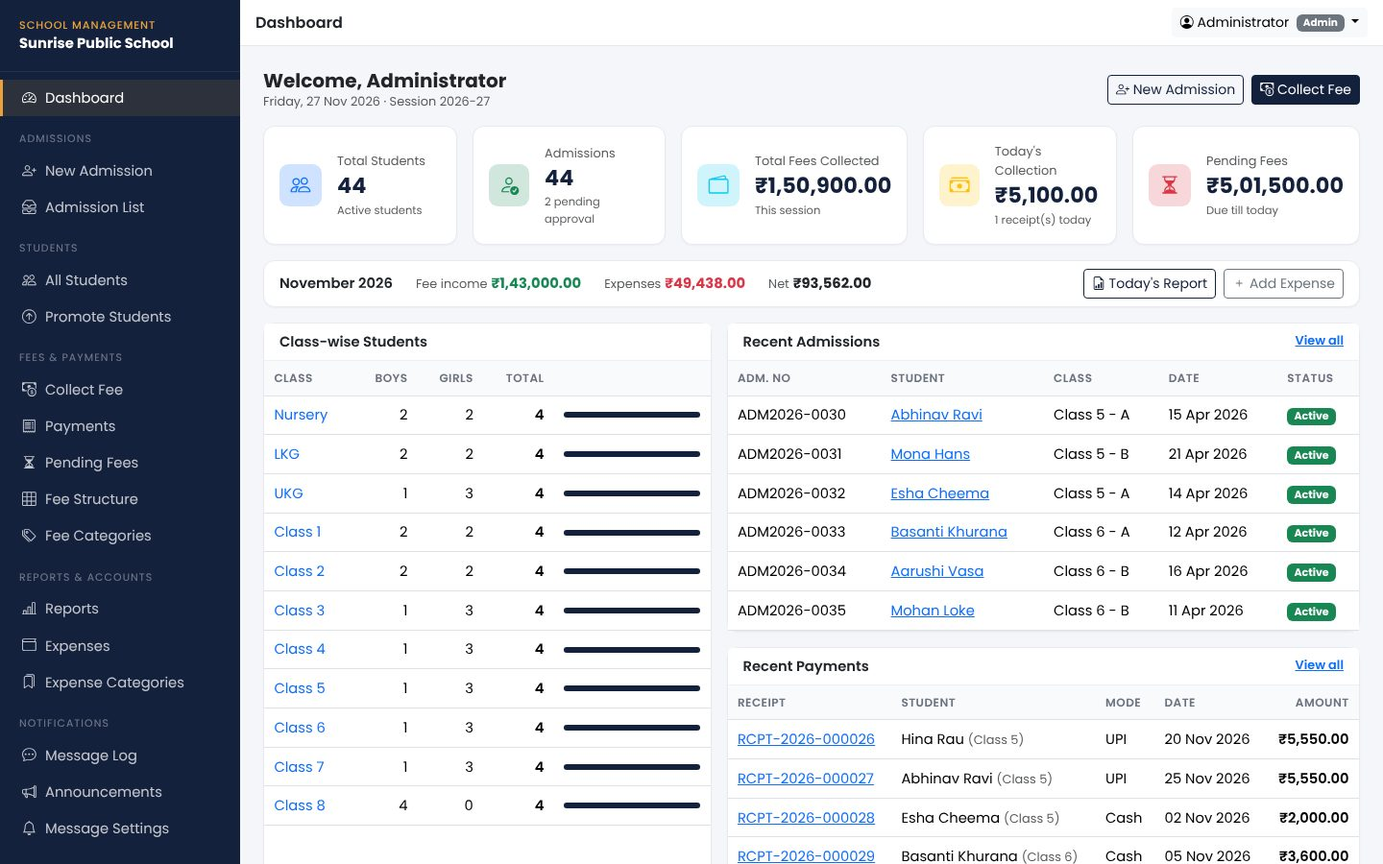
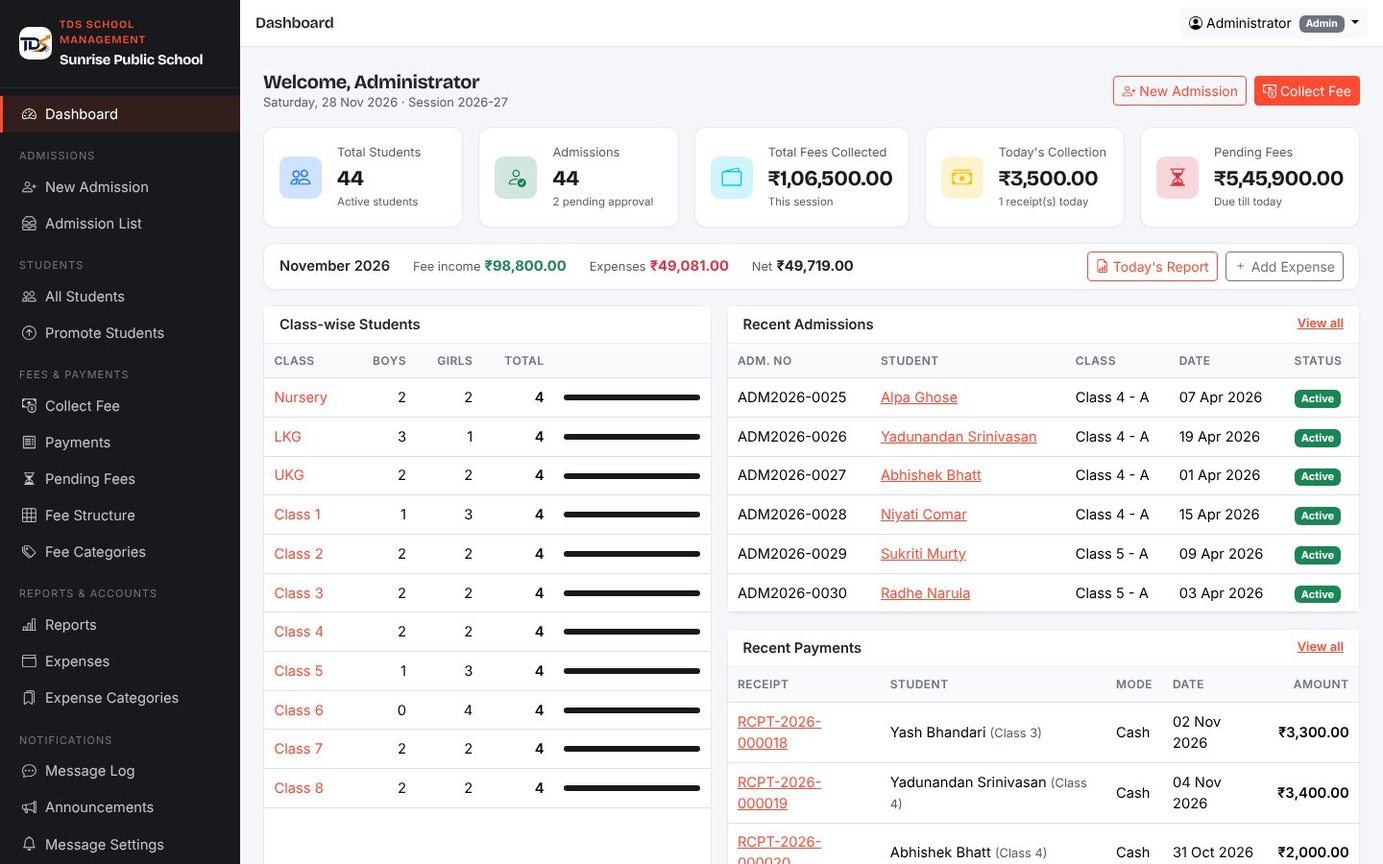
The Digital Strokes branding and schoolapp subdomain setup
- colours and fonts from thedigitalstrokes.in: brand orange #FF4B32 (hover
  #E23A22, soft #FFEEEB), dark #17191C/#2B2F35, Bricolage Grotesque headings,
  Inter body, pill buttons, white blurred header like the company site
- TDS logo mark in header, sidebar, owner panel and favicon; footer credit
- product screenshots retaken in the new style
- company contact (phone/WhatsApp/email) as defaults
- install steps for schoolapp.thedigitalstrokes.in: subdomain folder only,
  separate database, never touch the WordPress public_html

Verified on Apache with a WordPress-style parent .htaccess: main site
unaffected, subdomain installer, sign-up and lock work with MariaDB.

Claude-Session: https://claude.ai/code/session_01WPcd53vdgQhUfDC1Dq5XMG

diff --git a/resources/views/layouts/site.blade.php b/resources/views/layouts/site.blade.php
@@ -6,35 +6,44 @@
     <meta name="csrf-token" content="{{ csrf_token() }}">
     <title>@hasSection('title')@yield('title') · @endif{{ \App\Models\PlatformSetting::get('company_name') }}</title>
     <meta name="description" content="@yield('description', __('School management software for Nursery to Class 8: admissions, fees, receipts, reports and parent reminders. Runs on your own Windows laptop.'))">
-    <link rel="icon" href="{{ asset('assets/favicon.png') }}">
+    <link rel="icon" href="{{ asset('favicon.png') }}">
     <link href="{{ asset('vendor/bootstrap/bootstrap.min.css') }}" rel="stylesheet">
     <link href="{{ asset('vendor/bootstrap-icons/bootstrap-icons.min.css') }}" rel="stylesheet">
     <link rel="preconnect" href="https://fonts.googleapis.com">
-    <link href="https://fonts.googleapis.com/css2?family=Poppins:wght@400;500;600;700&family=Noto+Sans+Devanagari:wght@400;500;600;700&display=swap" rel="stylesheet">
+    <link href="https://fonts.googleapis.com/css2?family=Bricolage+Grotesque:opsz,wght@12..96,600;12..96,700;12..96,800&family=Inter:wght@400;500;600;700&family=Noto+Sans+Devanagari:wght@400;500;600;700&display=swap" rel="stylesheet">
     <style>
-        :root { --navy:#14213d; --navy-2:#1d2d52; --amber:#e9a23b; --ink:#1f2937; --muted:#6b7280; --line:#e6e9f0; --bg:#f5f7fb; }
-        body { font-family:'Poppins','Noto Sans Devanagari',system-ui,sans-serif; color:var(--ink); background:#fff; }
-        html[lang=hi] body { font-family:'Noto Sans Devanagari','Poppins',system-ui,sans-serif; }
-        .site-nav { background:var(--navy); position:sticky; top:0; z-index:1030; }
-        .site-nav .navbar-brand { color:#fff; font-weight:700; display:flex; align-items:center; gap:10px; }
-        .site-nav .navbar-brand img { width:36px; height:36px; border-radius:8px; }
-        .site-nav .navbar-brand small { display:block; color:var(--amber); font-size:.6rem; letter-spacing:.12em; font-weight:600; line-height:1; text-transform:uppercase; }
-        .site-nav .nav-link { color:rgba(255,255,255,.8); }
-        .site-nav .nav-link:hover, .site-nav .nav-link.active { color:#fff; }
-        .site-nav .navbar-toggler { border-color:rgba(255,255,255,.3); }
-        .site-nav .navbar-toggler-icon { filter:invert(1); }
-        .btn-amber { background:var(--amber); color:var(--navy); font-weight:600; border:0; }
-        .btn-amber:hover { background:#f0b04f; color:var(--navy); }
-        .btn-navy { background:var(--navy); color:#fff; font-weight:500; }
-        .btn-navy:hover { background:#0d1730; color:#fff; }
-        .lang-switch a { color:rgba(255,255,255,.65); text-decoration:none; font-size:.85rem; padding:2px 6px; border-radius:6px; }
-        .lang-switch a.on { color:var(--navy); background:#fff; }
-        .eyebrow { color:var(--amber); text-transform:uppercase; letter-spacing:.12em; font-size:.78rem; font-weight:600; }
-        h1, h2, h3, h4 { color:var(--navy); }
-        .card { border:1px solid var(--line); border-radius:14px; }
-        .form-label { font-weight:500; font-size:.88rem; margin-bottom:.3rem; }
-        .site-footer { background:var(--navy); color:rgba(255,255,255,.65); font-size:.9rem; }
-        .site-footer a { color:rgba(255,255,255,.8); text-decoration:none; }
+        /* The Digital Strokes brand */
+        :root { --b:#FF4B32; --bd:#E23A22; --bs:#FFEEEB; --k:#17191C; --k2:#2B2F35; --g:#929DA7; --gl:#C4CAD0; --ln:#E3E6EA; --sf:#F4F5F7; --mu:#6E7882;
+                --hf:'Bricolage Grotesque','Inter',system-ui,sans-serif; --bf:'Inter',system-ui,-apple-system,'Segoe UI',sans-serif;
+                /* names used by page styles */
+                --navy:var(--k); --navy-2:var(--k2); --amber:var(--b); --ink:var(--k2); --muted:var(--mu); --line:var(--ln); --bg:var(--sf); }
+        body { font-family:var(--bf); color:var(--k2); background:#fff; }
+        html[lang=hi] body { font-family:'Noto Sans Devanagari',var(--bf); }
+        h1, h2, h3, h4, h5, .h1, .h2, .h3, .h4, .h5 { font-family:var(--hf); color:var(--k); letter-spacing:-.025em; font-weight:800; }
+        html[lang=hi] h1, html[lang=hi] h2, html[lang=hi] h3, html[lang=hi] h4 { font-family:'Noto Sans Devanagari',var(--hf); letter-spacing:0; }
+        a { color:var(--b); } a:hover { color:var(--bd); }
+        .site-nav { background:rgb(255 255 255 / .92); -webkit-backdrop-filter:saturate(180%) blur(14px); backdrop-filter:saturate(180%) blur(14px); border-bottom:1px solid var(--ln); position:sticky; top:0; z-index:1030; }
+        .site-nav .navbar-brand { color:var(--k); font-family:var(--hf); font-weight:800; display:flex; align-items:center; gap:10px; letter-spacing:-.02em; }
+        .site-nav .navbar-brand img { width:40px; height:40px; border-radius:12px; object-fit:contain; background:#fff; box-shadow:0 0 0 1px var(--ln); }
+        .site-nav .navbar-brand b { color:var(--b); font-weight:800; }
+        .site-nav .navbar-brand small { display:block; color:var(--mu); font-family:var(--bf); font-size:.62rem; letter-spacing:.12em; font-weight:600; line-height:1; text-transform:uppercase; }
+        .site-nav .nav-link { color:var(--k2); font-weight:600; padding:8px 14px !important; border-radius:999px; }
+        .site-nav .nav-link:hover, .site-nav .nav-link.active { color:var(--b); background:var(--bs); }
+        .btn-amber { background:var(--b); color:#fff; font-family:var(--hf); font-weight:700; border:0; border-radius:999px; box-shadow:0 10px 24px -12px rgb(255 75 50 / .7); }
+        .btn-amber:hover, .btn-amber:focus { background:var(--bd); color:#fff; transform:translateY(-1px); }
+        .btn-navy { background:var(--k); color:#fff; font-family:var(--hf); font-weight:700; border-radius:999px; }
+        .btn-navy:hover { background:var(--k2); color:#fff; }
+        .btn-outline-light, .btn-outline-dark, .btn-outline-secondary { border-radius:999px; }
+        .btn-lg { padding:.75rem 1.6rem; }
+        .lang-switch a { color:var(--mu); text-decoration:none; font-size:.85rem; font-weight:600; padding:4px 10px; border-radius:999px; border:1px solid var(--ln); }
+        .lang-switch a.on { color:#fff; background:var(--k); border-color:var(--k); }
+        .eyebrow { color:var(--b); text-transform:uppercase; letter-spacing:.14em; font-size:.78rem; font-weight:700; }
+        .card { border:1px solid var(--ln); border-radius:18px; }
+        .form-control, .form-select { border-radius:12px; border-color:var(--ln); padding:.6rem .85rem; }
+        .form-control:focus, .form-select:focus { border-color:var(--b); box-shadow:0 0 0 .2rem rgb(255 75 50 / .15); }
+        .form-label { font-weight:600; font-size:.88rem; margin-bottom:.3rem; color:var(--k2); }
+        .site-footer { background:var(--k); color:var(--gl); font-size:.9rem; }
+        .site-footer a { color:var(--gl); text-decoration:none; }
         .site-footer a:hover { color:#fff; }
     </style>
     @stack('styles')
@@ -43,7 +52,7 @@
 @php($wa = preg_replace('/\D/', '', (string) \App\Models\PlatformSetting::get('contact_whatsapp')))
 <nav class="navbar navbar-expand-lg site-nav">
     <div class="container">
-        <a class="navbar-brand" href="{{ route('home') }}"><img src="{{ asset('assets/logo.png') }}" alt=""><span><small>{{ __('School Management') }}</small>TDS Software</span></a>
+        <a class="navbar-brand" href="{{ route('home') }}"><img src="{{ asset('assets/tds-mark.png') }}" alt="The Digital Strokes"><span><small>The Digital Strokes</small>TDS <b>School</b></span></a>
         <button class="navbar-toggler" type="button" data-bs-toggle="collapse" data-bs-target="#nav" aria-label="Menu"><span class="navbar-toggler-icon"></span></button>
         <div class="collapse navbar-collapse" id="nav">
             <ul class="navbar-nav ms-auto align-items-lg-center gap-lg-2">
@@ -72,7 +81,7 @@
 
 <footer class="site-footer py-4 mt-auto">
     <div class="container d-flex flex-wrap gap-3 justify-content-between align-items-center">
-        <span>© {{ now()->year }} {{ \App\Models\PlatformSetting::get('company_name') }}</span>
+        <span class="d-flex align-items-center gap-2"><img src="{{ asset('assets/tds-mark.png') }}" alt="" style="width:28px;height:28px;border-radius:8px;background:#fff">© {{ now()->year }} {{ \App\Models\PlatformSetting::get('company_name') }} · {{ __('A product of') }} <a href="https://thedigitalstrokes.in" target="_blank" rel="noopener">The Digital Strokes</a></span>
         <span class="d-flex flex-wrap gap-3">
             @if($wa)<a href="https://wa.me/{{ $wa }}" target="_blank" rel="noopener"><i class="bi bi-whatsapp"></i> WhatsApp</a>@endif
             @if(\App\Models\PlatformSetting::get('contact_phone'))<a href="tel:{{ preg_replace('/[^\d+]/', '', \App\Models\PlatformSetting::get('contact_phone')) }}"><i class="bi bi-telephone"></i> {{ \App\Models\PlatformSetting::get('contact_phone') }}</a>@endif

diff --git a/resources/views/layouts/app.blade.php b/resources/views/layouts/app.blade.php
@@ -5,19 +5,20 @@
     <meta name="viewport" content="width=device-width, initial-scale=1">
     <meta name="csrf-token" content="{{ csrf_token() }}">
     <title>@yield('title', 'Dashboard') · {{ school('name') }}</title>
+    <link rel="icon" href="{{ asset('favicon.png') }}">
     <link href="{{ asset('vendor/bootstrap/bootstrap.min.css') }}" rel="stylesheet">
     <link href="{{ asset('vendor/bootstrap-icons/bootstrap-icons.min.css') }}" rel="stylesheet">
-    <link href="https://fonts.googleapis.com/css2?family=Poppins:wght@400;500;600;700&display=swap" rel="stylesheet">
+    <link href="https://fonts.googleapis.com/css2?family=Bricolage+Grotesque:opsz,wght@12..96,600;12..96,700;12..96,800&family=Inter:wght@400;500;600;700&display=swap" rel="stylesheet">
     <style>
-        :root { --navy:#14213d; --amber:#e9a23b; }
-        body { font-family: 'Poppins', system-ui, sans-serif; background:#f4f6fa; font-size:.92rem; }
+        :root { --navy:#17191C; --amber:#FF4B32; }
+        body { font-family: 'Inter', system-ui, sans-serif; background:#f4f6fa; font-size:.92rem; }
         .sidebar { width:250px; background:var(--navy); min-height:100vh; position:fixed; top:0; left:0; z-index:1030; overflow-y:auto; transition:transform .2s; }
         .sidebar .brand { color:#fff; font-weight:700; padding:1.1rem 1.25rem; border-bottom:1px solid rgba(255,255,255,.08); }
         .sidebar .brand small { color:var(--amber); display:block; font-weight:500; font-size:.7rem; letter-spacing:.08em; text-transform:uppercase; }
         .sidebar .nav-head { color:rgba(255,255,255,.4); font-size:.68rem; text-transform:uppercase; letter-spacing:.1em; padding:1rem 1.25rem .35rem; }
         .sidebar a.nav-link { color:rgba(255,255,255,.75); padding:.5rem 1.25rem; border-left:3px solid transparent; }
         .sidebar a.nav-link:hover { color:#fff; background:rgba(255,255,255,.05); }
-        .sidebar a.nav-link.active { color:#fff; background:rgba(233,162,59,.12); border-left-color:var(--amber); }
+        .sidebar a.nav-link.active { color:#fff; background:rgba(255,75,50,.12); border-left-color:var(--amber); }
         .sidebar a.nav-link i { width:1.5rem; display:inline-block; }
         .sidebar.locked a.nav-link:not(.billing-link) { opacity:.55; }
         .sidebar.locked a.nav-link:not(.billing-link)::after { content:'\F47B'; font-family:'bootstrap-icons'; float:right; color:var(--amber); }
@@ -27,8 +28,6 @@
         .card-header { background:#fff; border-bottom:1px solid #eef0f4; font-weight:600; }
         .stat .icon { width:44px; height:44px; border-radius:.6rem; display:flex; align-items:center; justify-content:center; font-size:1.3rem; }
         .stat .value { font-size:1.4rem; font-weight:700; color:var(--navy); }
-        .btn-primary { --bs-btn-bg:#14213d; --bs-btn-border-color:#14213d; --bs-btn-hover-bg:#0d1730; --bs-btn-hover-border-color:#0d1730; --bs-btn-active-bg:#0d1730; --bs-btn-active-border-color:#0d1730; --bs-btn-disabled-bg:#14213d; --bs-btn-disabled-border-color:#14213d; }
-        .btn-outline-primary { --bs-btn-color:#14213d; --bs-btn-border-color:#14213d; --bs-btn-hover-bg:#14213d; --bs-btn-hover-border-color:#14213d; --bs-btn-active-bg:#14213d; --bs-btn-active-border-color:#14213d; }
         .table > :not(caption) > * > * { padding:.55rem .65rem; }
         .table thead th { font-size:.75rem; text-transform:uppercase; letter-spacing:.04em; color:#6b7280; font-weight:600; background:#f9fafb; }
         .avatar { width:36px; height:36px; border-radius:50%; object-fit:cover; background:#e5e7eb; display:inline-flex; align-items:center; justify-content:center; font-weight:600; color:var(--navy); }
@@ -40,13 +39,23 @@
             .main { margin-left:0; }
         }
         @media print { .sidebar, .topbar, .no-print { display:none !important; } .main { margin:0; } }
+        /* The Digital Strokes brand */
+        h1, h2, h3, h4, h5, .h1, .h2, .h3, .h4, .h5, .brand, .navbar-brand, .stat .value, .stat .v { font-family:'Bricolage Grotesque','Inter',system-ui,sans-serif; letter-spacing:-.02em; }
+        a { color:#FF4B32; } a:hover { color:#E23A22; }
+        .btn-primary { --bs-btn-bg:#FF4B32; --bs-btn-border-color:#FF4B32; --bs-btn-hover-bg:#E23A22; --bs-btn-hover-border-color:#E23A22; --bs-btn-active-bg:#E23A22; --bs-btn-active-border-color:#E23A22; --bs-btn-disabled-bg:#FF4B32; --bs-btn-disabled-border-color:#FF4B32; --bs-btn-color:#fff; --bs-btn-hover-color:#fff; }
+        .btn-outline-primary { --bs-btn-color:#FF4B32; --bs-btn-border-color:#FF4B32; --bs-btn-hover-bg:#FF4B32; --bs-btn-hover-border-color:#FF4B32; --bs-btn-active-bg:#E23A22; --bs-btn-active-border-color:#E23A22; --bs-btn-hover-color:#fff; }
+        .btn-check:checked + .btn-outline-primary { background:#FF4B32; border-color:#FF4B32; color:#fff; }
+        .form-control:focus, .form-select:focus { border-color:#FF4B32; box-shadow:0 0 0 .2rem rgb(255 75 50 / .15); }
+        .form-check-input:checked { background-color:#FF4B32; border-color:#FF4B32; }
+        .nav-tabs .nav-link.active { color:#FF4B32; }
+        .page-link { color:#FF4B32; } .active > .page-link { background:#FF4B32; border-color:#FF4B32; }
     </style>
     @stack('styles')
 </head>
 <body>
 @php($u = auth()->user())
 <nav class="sidebar {{ ($access['state'] ?? null) === 'locked' ? 'locked' : '' }}" id="sidebar">
-    <div class="brand"><small>TDS School Management</small>{{ school('name') }}</div>
+    <div class="brand d-flex align-items-center gap-2"><img src="{{ asset('assets/tds-mark.png') }}" alt="" style="width:34px;height:34px;border-radius:10px;background:#fff"><span><small>TDS School Management</small>{{ school('name') }}</span></div>
     <div class="nav flex-column py-2">
         <a class="nav-link {{ request()->routeIs('dashboard') ? 'active' : '' }}" href="{{ route('dashboard') }}"><i class="bi bi-speedometer2"></i>Dashboard</a>
 
@@ -114,9 +123,9 @@
 
     @isset($access)
         @if($access['state'] === 'locked')
-            <div class="px-3 py-2 small d-flex align-items-center gap-2 text-white no-print" style="background:#14213d">
+            <div class="px-3 py-2 small d-flex align-items-center gap-2 text-white no-print" style="background:#17191C">
                 <i class="bi bi-lock-fill"></i> All features are locked. Start your 7-day trial for just ₹1 to unlock everything.
-                <a href="{{ route('billing') }}" class="ms-auto btn btn-sm fw-semibold" style="background:#e9a23b;color:#14213d">Start trial for ₹1</a>
+                <a href="{{ route('billing') }}" class="ms-auto btn btn-sm fw-semibold" style="background:#FF4B32;color:#fff">Start trial for ₹1</a>
             </div>
         @elseif($access['state'] === 'expired')
             <div class="px-3 py-2 small d-flex align-items-center gap-2 text-white bg-danger no-print">

diff --git a/resources/views/layouts/super.blade.php b/resources/views/layouts/super.blade.php
@@ -3,22 +3,33 @@
 <head>
     <meta charset="utf-8"><meta name="viewport" content="width=device-width, initial-scale=1"><meta name="robots" content="noindex">
     <title>@yield('title') · TDS Owner</title>
-    <link rel="icon" href="{{ asset('assets/favicon.png') }}">
+    <link href="https://fonts.googleapis.com/css2?family=Bricolage+Grotesque:opsz,wght@12..96,600;12..96,700;12..96,800&family=Inter:wght@400;500;600;700&display=swap" rel="stylesheet">
+    <link rel="icon" href="{{ asset('favicon.png') }}">
     <link href="{{ asset('vendor/bootstrap/bootstrap.min.css') }}" rel="stylesheet">
     <link href="{{ asset('vendor/bootstrap-icons/bootstrap-icons.min.css') }}" rel="stylesheet">
     <style>
         body { background:#f4f6fa; font-size:.92rem; }
-        .admin-nav { background:#14213d; } .admin-nav .nav-link { color:rgba(255,255,255,.75); } .admin-nav .nav-link.active, .admin-nav .nav-link:hover { color:#fff; }
+        .admin-nav { background:#17191C; } .admin-nav .nav-link { color:rgba(255,255,255,.75); } .admin-nav .nav-link.active, .admin-nav .nav-link:hover { color:#fff; }
         .admin-nav .navbar-brand { color:#fff; font-weight:700; } .admin-nav .navbar-toggler-icon { filter:invert(1); }
-        .card { border:1px solid #e7eaf0; border-radius:12px; } .stat .v { font-size:1.5rem; font-weight:700; color:#14213d; }
+        .card { border:1px solid #e7eaf0; border-radius:12px; } .stat .v { font-size:1.5rem; font-weight:700; color:#17191C; }
         .table thead th { font-size:.74rem; text-transform:uppercase; color:#6b7280; background:#f9fafb; }
-        .btn-navy { background:#14213d; color:#fff; } .btn-navy:hover { background:#0d1730; color:#fff; }
+        .btn-navy { background:#17191C; color:#fff; } .btn-navy:hover { background:#2B2F35; color:#fff; }
+        /* The Digital Strokes brand */
+        h1, h2, h3, h4, h5, .h1, .h2, .h3, .h4, .h5, .brand, .navbar-brand, .stat .value, .stat .v { font-family:'Bricolage Grotesque','Inter',system-ui,sans-serif; letter-spacing:-.02em; }
+        a { color:#FF4B32; } a:hover { color:#E23A22; }
+        .btn-primary { --bs-btn-bg:#FF4B32; --bs-btn-border-color:#FF4B32; --bs-btn-hover-bg:#E23A22; --bs-btn-hover-border-color:#E23A22; --bs-btn-active-bg:#E23A22; --bs-btn-active-border-color:#E23A22; --bs-btn-disabled-bg:#FF4B32; --bs-btn-disabled-border-color:#FF4B32; --bs-btn-color:#fff; --bs-btn-hover-color:#fff; }
+        .btn-outline-primary { --bs-btn-color:#FF4B32; --bs-btn-border-color:#FF4B32; --bs-btn-hover-bg:#FF4B32; --bs-btn-hover-border-color:#FF4B32; --bs-btn-active-bg:#E23A22; --bs-btn-active-border-color:#E23A22; --bs-btn-hover-color:#fff; }
+        .btn-check:checked + .btn-outline-primary { background:#FF4B32; border-color:#FF4B32; color:#fff; }
+        .form-control:focus, .form-select:focus { border-color:#FF4B32; box-shadow:0 0 0 .2rem rgb(255 75 50 / .15); }
+        .form-check-input:checked { background-color:#FF4B32; border-color:#FF4B32; }
+        .nav-tabs .nav-link.active { color:#FF4B32; }
+        .page-link { color:#FF4B32; } .active > .page-link { background:#FF4B32; border-color:#FF4B32; }
     </style>
 </head>
 <body>
 <nav class="navbar navbar-expand-lg admin-nav">
     <div class="container-fluid px-3">
-        <a class="navbar-brand" href="{{ route('super.dashboard') }}"><img src="{{ asset('assets/logo.png') }}" width="28" class="rounded me-2" alt="">TDS Owner</a>
+        <a class="navbar-brand" href="{{ route('super.dashboard') }}"><img src="{{ asset('assets/tds-mark.png') }}" width="30" class="rounded me-2 bg-white" alt="">TDS Owner</a>
         <button class="navbar-toggler" data-bs-toggle="collapse" data-bs-target="#an"><span class="navbar-toggler-icon"></span></button>
         <div class="collapse navbar-collapse" id="an">
             <ul class="navbar-nav me-auto">

diff --git a/resources/views/home.blade.php b/resources/views/home.blade.php
@@ -1,18 +1,18 @@
 @extends('layouts.site')
 @push('styles')
 <style>
-    .hero { background:radial-gradient(1200px 500px at 80% -10%, #2a3f6e 0%, transparent 60%), var(--navy); color:#fff; padding:64px 0 0; overflow:hidden; }
+    .hero { background:radial-gradient(1200px 500px at 80% -10%, #4a2a24 0%, transparent 60%), var(--navy); color:#fff; padding:64px 0 0; overflow:hidden; }
     .hero h1 { color:#fff; font-size:clamp(2rem, 4.6vw, 3.2rem); font-weight:700; }
     .hero h1 span { color:var(--amber); }
     .hero .lead { color:rgba(255,255,255,.82); max-width:640px; }
     .hero .tagline { color:var(--amber); font-weight:500; }
     .hero .meta { color:rgba(255,255,255,.6); font-size:.85rem; }
-    .frame { margin-top:48px; background:#0d1730; border-radius:14px 14px 0 0; padding:10px 10px 0; box-shadow:0 -10px 60px rgba(0,0,0,.35); }
+    .frame { margin-top:48px; background:#2B2F35; border-radius:14px 14px 0 0; padding:10px 10px 0; box-shadow:0 -10px 60px rgba(0,0,0,.35); }
     .frame .dots { display:flex; gap:6px; padding:2px 6px 10px; } .frame .dots i { width:10px; height:10px; border-radius:50%; background:#3b4a6b; }
     .frame img { border-radius:8px 8px 0 0; width:100%; }
     section { padding:72px 0; }
     section[id] { scroll-margin-top:70px; }
-    .pillar .ic, .feat .tag { width:46px; height:46px; border-radius:12px; display:grid; place-items:center; background:#fff4e2; color:#b87309; font-size:1.3rem; }
+    .pillar .ic, .feat .tag { width:46px; height:46px; border-radius:12px; display:grid; place-items:center; background:#FFEEEB; color:#E23A22; font-size:1.3rem; }
     .feat .tag { width:32px; height:32px; background:var(--navy); color:var(--amber); font-weight:700; font-size:.9rem; border-radius:8px; }
     .feat ul { padding-left:18px; color:var(--muted); font-size:.92rem; margin:0; }
     .bg-soft { background:var(--bg); }
@@ -24,10 +24,10 @@
     .step { background:var(--navy-2); border-radius:14px; padding:22px; height:100%; }
     .step .num { width:34px; height:34px; border-radius:50%; background:var(--amber); color:var(--navy); font-weight:700; display:grid; place-items:center; margin-bottom:12px; }
     .step h3 { color:#fff; font-size:1rem; } .step p { color:rgba(255,255,255,.72); font-size:.92rem; margin:0; }
-    .note { background:rgba(233,162,59,.12); border:1px solid rgba(233,162,59,.4); border-radius:12px; padding:16px 18px; color:rgba(255,255,255,.85); }
+    .note { background:rgba(255,75,50,.12); border:1px solid rgba(255,75,50,.4); border-radius:12px; padding:16px 18px; color:rgba(255,255,255,.85); }
     .note b { color:var(--amber); }
     .plan { border:1px solid var(--line); border-radius:16px; padding:28px; height:100%; display:flex; flex-direction:column; }
-    .plan.best { border:2px solid var(--amber); box-shadow:0 20px 40px rgba(233,162,59,.15); }
+    .plan.best { border:2px solid var(--amber); box-shadow:0 20px 40px rgba(255,75,50,.15); }
     .plan .price { font-size:2rem; font-weight:700; color:var(--navy); }
     .plan ul { list-style:none; padding:0; margin:16px 0 22px; }
     .plan li { padding:5px 0; } .plan li i { color:#16a34a; margin-right:6px; }

diff --git a/resources/views/layouts/guest.blade.php b/resources/views/layouts/guest.blade.php
@@ -6,15 +6,23 @@
     <title>@yield('title') · {{ school('name') }}</title>
     <link href="{{ asset('vendor/bootstrap/bootstrap.min.css') }}" rel="stylesheet">
     <link href="{{ asset('vendor/bootstrap-icons/bootstrap-icons.min.css') }}" rel="stylesheet">
-    <link href="https://fonts.googleapis.com/css2?family=Poppins:wght@400;500;600;700&display=swap" rel="stylesheet">
+    <link href="https://fonts.googleapis.com/css2?family=Bricolage+Grotesque:opsz,wght@12..96,600;12..96,700;12..96,800&family=Inter:wght@400;500;600;700&display=swap" rel="stylesheet">
     <style>
-        body { font-family:'Poppins', sans-serif; background:#14213d; min-height:100vh; font-size:.92rem; }
+        body { font-family:'Inter', sans-serif; background:#17191C; min-height:100vh; font-size:.92rem; }
         .card { border:0; border-radius:1rem; }
-        .btn-primary { --bs-btn-bg:#14213d; --bs-btn-border-color:#14213d; --bs-btn-hover-bg:#0d1730; --bs-btn-hover-border-color:#0d1730; --bs-btn-active-bg:#0d1730; --bs-btn-active-border-color:#0d1730; --bs-btn-disabled-bg:#14213d; --bs-btn-disabled-border-color:#14213d; }
-        .btn-outline-primary { --bs-btn-color:#14213d; --bs-btn-border-color:#14213d; --bs-btn-hover-bg:#14213d; --bs-btn-hover-border-color:#14213d; --bs-btn-active-bg:#14213d; --bs-btn-active-border-color:#14213d; }
-        .accent { color:#e9a23b; }
+        .accent { color:#FF4B32; }
         .form-label { font-weight:500; font-size:.83rem; margin-bottom:.25rem; }
         .required::after { content:' *'; color:#dc3545; }
+        /* The Digital Strokes brand */
+        h1, h2, h3, h4, h5, .h1, .h2, .h3, .h4, .h5, .brand, .navbar-brand, .stat .value, .stat .v { font-family:'Bricolage Grotesque','Inter',system-ui,sans-serif; letter-spacing:-.02em; }
+        a { color:#FF4B32; } a:hover { color:#E23A22; }
+        .btn-primary { --bs-btn-bg:#FF4B32; --bs-btn-border-color:#FF4B32; --bs-btn-hover-bg:#E23A22; --bs-btn-hover-border-color:#E23A22; --bs-btn-active-bg:#E23A22; --bs-btn-active-border-color:#E23A22; --bs-btn-disabled-bg:#FF4B32; --bs-btn-disabled-border-color:#FF4B32; --bs-btn-color:#fff; --bs-btn-hover-color:#fff; }
+        .btn-outline-primary { --bs-btn-color:#FF4B32; --bs-btn-border-color:#FF4B32; --bs-btn-hover-bg:#FF4B32; --bs-btn-hover-border-color:#FF4B32; --bs-btn-active-bg:#E23A22; --bs-btn-active-border-color:#E23A22; --bs-btn-hover-color:#fff; }
+        .btn-check:checked + .btn-outline-primary { background:#FF4B32; border-color:#FF4B32; color:#fff; }
+        .form-control:focus, .form-select:focus { border-color:#FF4B32; box-shadow:0 0 0 .2rem rgb(255 75 50 / .15); }
+        .form-check-input:checked { background-color:#FF4B32; border-color:#FF4B32; }
+        .nav-tabs .nav-link.active { color:#FF4B32; }
+        .page-link { color:#FF4B32; } .active > .page-link { background:#FF4B32; border-color:#FF4B32; }
     </style>
 </head>
 <body>

diff --git a/resources/views/students/idcards.blade.php b/resources/views/students/idcards.blade.php
@@ -4,16 +4,16 @@
 <style>
     .cards { display:flex; flex-wrap:wrap; gap:12px; justify-content:center; max-width:820px; margin:0 auto 2rem; }
     .idc { width:54mm; height:86mm; background:#fff; border-radius:8px; overflow:hidden; border:1px solid #d1d5db; display:flex; flex-direction:column; page-break-inside:avoid; font-size:9px; }
-    .idc .top { background:#14213d; color:#fff; text-align:center; padding:6px 4px 26px; }
+    .idc .top { background:#17191C; color:#fff; text-align:center; padding:6px 4px 26px; }
     .idc .top b { font-size:11px; display:block; line-height:1.2; }
-    .idc .top span { color:#e9a23b; font-size:7.5px; letter-spacing:.08em; text-transform:uppercase; }
-    .idc .ph { width:22mm; height:26mm; margin:-22px auto 4px; border:3px solid #fff; border-radius:6px; overflow:hidden; background:#e5e7eb; display:flex; align-items:center; justify-content:center; font-size:22px; font-weight:700; color:#14213d; }
+    .idc .top span { color:#FF4B32; font-size:7.5px; letter-spacing:.08em; text-transform:uppercase; }
+    .idc .ph { width:22mm; height:26mm; margin:-22px auto 4px; border:3px solid #fff; border-radius:6px; overflow:hidden; background:#e5e7eb; display:flex; align-items:center; justify-content:center; font-size:22px; font-weight:700; color:#17191C; }
     .idc .ph img { width:100%; height:100%; object-fit:cover; }
-    .idc .nm { text-align:center; font-weight:700; font-size:11px; color:#14213d; }
+    .idc .nm { text-align:center; font-weight:700; font-size:11px; color:#17191C; }
     .idc dl { margin:4px 8px 0; display:grid; grid-template-columns:auto 1fr; gap:1px 6px; }
     .idc dt { color:#6b7280; font-weight:500; }
     .idc dd { margin:0; font-weight:500; }
-    .idc .ft { margin-top:auto; background:#e9a23b; height:6px; }
+    .idc .ft { margin-top:auto; background:#FF4B32; height:6px; }
     @media print { .cards { max-width:none; } }
 </style>
 @endpush

diff --git a/public/install.php b/public/install.php
@@ -114,12 +114,12 @@ if ($_SERVER['REQUEST_METHOD'] === 'POST' && $allOk) {
 <html lang="en"><head><meta charset="utf-8"><meta name="viewport" content="width=device-width, initial-scale=1"><meta name="robots" content="noindex">
 <title>Install · TDS School Management</title>
 <style>
-  body { margin:0; font-family:system-ui,"Segoe UI",Roboto,sans-serif; background:#14213d; color:#1f2937; }
+  body { margin:0; font-family:system-ui,"Segoe UI",Roboto,sans-serif; background:#17191C; color:#1f2937; }
   .box { max-width:720px; margin:40px auto; background:#fff; border-radius:14px; padding:28px; }
-  h1 { margin:0 0 4px; color:#14213d; } h2 { font-size:16px; margin:24px 0 10px; color:#14213d; }
+  h1 { margin:0 0 4px; color:#17191C; } h2 { font-size:16px; margin:24px 0 10px; color:#17191C; }
   .muted { color:#6b7280; font-size:14px; } .grid { display:grid; grid-template-columns:1fr 1fr; gap:12px; }
   label { display:block; font-size:13px; font-weight:600; } input { width:100%; box-sizing:border-box; margin-top:4px; padding:9px 10px; border:1px solid #d1d5db; border-radius:8px; font:inherit; }
-  button { margin-top:22px; width:100%; padding:13px; border:0; border-radius:10px; background:#e9a23b; color:#14213d; font-weight:700; font-size:16px; cursor:pointer; }
+  button { margin-top:22px; width:100%; padding:13px; border:0; border-radius:10px; background:#FF4B32; color:#17191C; font-weight:700; font-size:16px; cursor:pointer; }
   ul.checks { list-style:none; padding:0; margin:0; font-size:14px; } ul.checks li { padding:3px 0; } .ok { color:#16a34a } .bad { color:#dc2626 }
   .err { background:#fee2e2; padding:12px; border-radius:8px; margin-top:14px; font-size:14px; }
   @media (max-width:600px) { .grid { grid-template-columns:1fr; } }

diff --git a/resources/views/layouts/print.blade.php b/resources/views/layouts/print.blade.php
@@ -5,12 +5,12 @@
     <meta name="viewport" content="width=device-width, initial-scale=1">
     <title>@yield('title') · {{ school('name') }}</title>
     <link href="{{ asset('vendor/bootstrap/bootstrap.min.css') }}" rel="stylesheet">
-    <link href="https://fonts.googleapis.com/css2?family=Poppins:wght@400;500;600;700&display=swap" rel="stylesheet">
+    <link href="https://fonts.googleapis.com/css2?family=Bricolage+Grotesque:opsz,wght@12..96,600;12..96,700;12..96,800&family=Inter:wght@400;500;600;700&display=swap" rel="stylesheet">
     <style>
-        body { font-family:'Poppins', sans-serif; background:#eef0f4; font-size:.88rem; color:#111827; }
+        body { font-family:'Inter', sans-serif; background:#eef0f4; font-size:.88rem; color:#111827; }
         .sheet { background:#fff; max-width:800px; margin:1.5rem auto; padding:2rem; box-shadow:0 2px 10px rgba(0,0,0,.08); }
-        .school-head { border-bottom:3px solid #14213d; padding-bottom:.75rem; margin-bottom:1rem; text-align:center; }
-        .school-head h2 { color:#14213d; font-weight:700; margin:0; font-size:1.4rem; }
+        .school-head { border-bottom:3px solid #17191C; padding-bottom:.75rem; margin-bottom:1rem; text-align:center; }
+        .school-head h2 { color:#17191C; font-weight:700; margin:0; font-size:1.4rem; }
         .table td, .table th { padding:.4rem .5rem; }
         @media print { body { background:#fff; } .sheet { box-shadow:none; margin:0; max-width:none; padding:0; } .no-print { display:none !important; } }
         @page { margin:12mm; }

diff --git a/resources/views/reports/pdf.blade.php b/resources/views/reports/pdf.blade.php
@@ -5,16 +5,16 @@
 <style>
     @page { margin: 14mm 10mm; }
     body { font-family: 'DejaVu Sans', sans-serif; font-size: 9px; color: #111; }
-    .head { text-align: center; border-bottom: 2px solid #14213d; padding-bottom: 6px; margin-bottom: 8px; }
-    .head h1 { font-size: 15px; margin: 0; color: #14213d; }
+    .head { text-align: center; border-bottom: 2px solid #17191C; padding-bottom: 6px; margin-bottom: 8px; }
+    .head h1 { font-size: 15px; margin: 0; color: #17191C; }
     .head .t { font-size: 11px; font-weight: bold; margin-top: 4px; text-transform: uppercase; letter-spacing: 1px; }
     .muted { color: #555; }
     .summary td { padding: 2px 10px 2px 0; }
     table.data { width: 100%; border-collapse: collapse; margin-top: 8px; }
-    table.data th { background: #14213d; color: #fff; padding: 4px; text-align: left; font-size: 8.5px; }
+    table.data th { background: #17191C; color: #fff; padding: 4px; text-align: left; font-size: 8.5px; }
     table.data td { padding: 3px 4px; border-bottom: 1px solid #ddd; }
     table.data tr:nth-child(even) td { background: #f6f7f9; }
-    table.data tfoot td { font-weight: bold; background: #e9ecf2; border-top: 1.5px solid #14213d; }
+    table.data tfoot td { font-weight: bold; background: #e9ecf2; border-top: 1.5px solid #17191C; }
     .r { text-align: right; }
     .foot { position: fixed; bottom: -8mm; left: 0; right: 0; font-size: 7.5px; color: #777; text-align: right; }
 </style>

diff --git a/resources/views/billing.blade.php b/resources/views/billing.blade.php
@@ -4,9 +4,9 @@
 @php($isAdmin = auth()->user()->isAdmin())
 
 @if($state === 'locked')
-    <div class="card mb-3 border-2" style="border-color:#e9a23b">
+    <div class="card mb-3 border-2" style="border-color:#FF4B32">
         <div class="card-body p-4 p-md-5 text-center">
-            <div class="display-6" style="color:#e9a23b"><i class="bi bi-lock-fill"></i></div>
+            <div class="display-6" style="color:#FF4B32"><i class="bi bi-lock-fill"></i></div>
             <h2 class="h3 fw-bold mt-2">{{ $trial ? "Start your {$trialDays}-day trial for ₹".($trialPrice + 0) : 'Activate your school for ₹'.number_format($monthlyPrice).' per month' }}</h2>
             <p class="text-muted mb-4" style="max-width:620px;margin:0 auto">
                 @if($trial)
@@ -30,7 +30,7 @@
                     ['bi-shield-lock', 'Staff logins (accountant, admission desk)'], ['bi-chat-dots', 'SMS / WhatsApp messages to parents'],
                 ] as [$icon, $label])
                     <div class="col-md-6"><div class="d-flex align-items-center gap-2 p-2 border rounded-3 text-muted">
-                        <i class="bi {{ $icon }}"></i><span>{{ $label }}</span><i class="bi bi-lock-fill ms-auto" style="color:#e9a23b"></i>
+                        <i class="bi {{ $icon }}"></i><span>{{ $label }}</span><i class="bi bi-lock-fill ms-auto" style="color:#FF4B32"></i>
                     </div></div>
                 @endforeach
             </div>

diff --git a/resources/views/billing-button.blade.php b/resources/views/billing-button.blade.php
@@ -4,7 +4,7 @@
     <p class="text-muted mb-0">Ask your school admin to start the plan.</p>
 @else
     <div class="alert alert-danger d-none text-start" id="subErr"></div>
-    <button type="button" class="btn btn-lg px-4 fw-semibold" style="background:#e9a23b;color:#14213d" id="subBtn">
+    <button type="button" class="btn btn-lg px-4 fw-semibold" style="background:#FF4B32;color:#fff" id="subBtn">
         <i class="bi bi-lock"></i> {{ $trial ? 'Pay ₹'.($trialPrice + 0).' & start trial' : 'Pay ₹'.number_format($monthlyPrice).' & activate' }}
     </button>
     <div class="small text-muted mt-2">Secure payment by Razorpay · UPI Autopay / card</div>
@@ -25,7 +25,7 @@
                 if (!res.ok) { throw new Error(data.message || 'Error'); }
                 const rzp = new Razorpay({
                     key: data.key, subscription_id: data.subscription_id, name: data.name, description: data.description,
-                    prefill: data.prefill, theme: {color: '#14213d'},
+                    prefill: data.prefill, theme: {color: '#17191C'},
                     handler: function (r) {
                         const f = document.getElementById('subVerify');
                         f.razorpay_payment_id.value = r.razorpay_payment_id; f.razorpay_subscription_id.value = r.razorpay_subscription_id; f.razorpay_signature.value = r.razorpay_signature;

diff --git a/resources/views/dashboard.blade.php b/resources/views/dashboard.blade.php
@@ -78,7 +78,7 @@
                             <td class="text-end">{{ $c->boys }}</td>
                             <td class="text-end">{{ $c->girls }}</td>
                             <td class="text-end fw-semibold">{{ $c->active_count }}</td>
-                            <td><div class="progress" style="height:6px"><div class="progress-bar" style="width:{{ round($c->active_count / $max * 100) }}%;background:#14213d"></div></div></td>
+                            <td><div class="progress" style="height:6px"><div class="progress-bar" style="width:{{ round($c->active_count / $max * 100) }}%;background:#17191C"></div></div></td>
                         </tr>
                     @empty
                         <tr><td colspan="5" class="text-muted text-center py-3">No classes yet.</td></tr>
